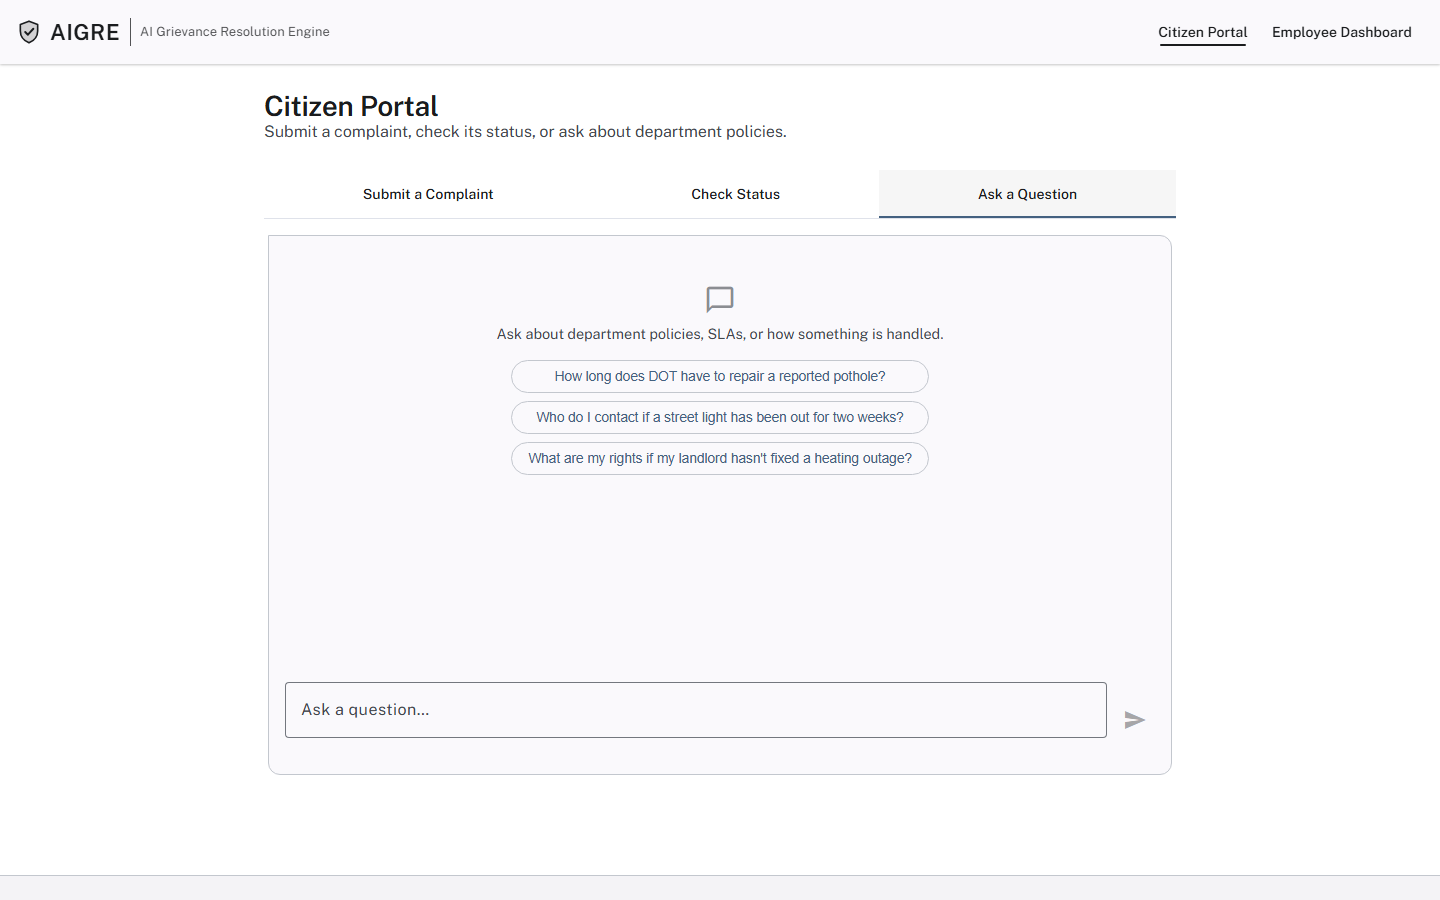
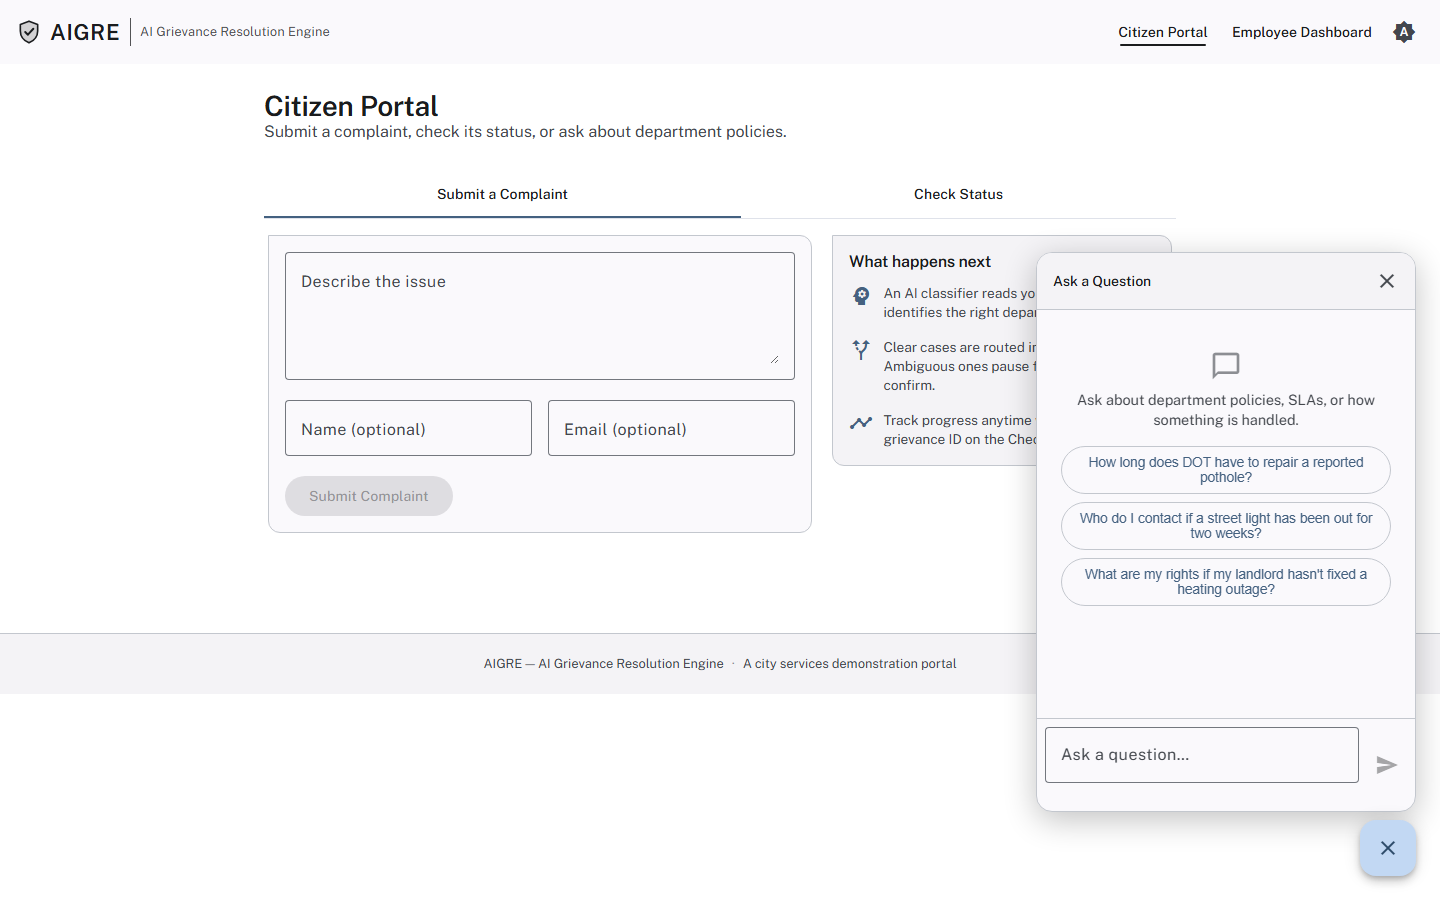
Update docs for the floating chat widget, add brownfield embed section
Regenerated the chat screenshots (docs/images/05, 06) to show the floating
launcher instead of the old "Ask a Question" tab, and reworked
APP_WALKTHROUGH.md's Citizen Portal section accordingly (the chat is now
its own site-wide section, not a citizen-portal-only tab).

Added a new README section demonstrating brownfield integration: a
department's existing website embedding the chat widget via one <script>
tag, scoped to its own document corpus. Includes two new live screenshots
of the widget running on a styled DMV proof-of-concept page (clearly
labeled as a POC, not the real dmv.nh.gov) with a real cited answer.

Claude-Session: https://claude.ai/code/session_01YEXGeRZ8oKgEagEFPSS9kn

diff --git a/README.md b/README.md
@@ -21,6 +21,7 @@ workflow state rather than a bolted-on afterthought.
 - [What it does](#what-it-does)
 - [Where AI is actually used](#where-ai-is-actually-used)
 - [What's agentic here (and what isn't)](#whats-agentic-here-and-what-isnt)
+- [Embedding on an existing site (brownfield integration)](#embedding-on-an-existing-site-brownfield-integration)
 - [Tech stack](#tech-stack)
 - [Architecture at a glance](#architecture-at-a-glance)
 - [Screenshots](#screenshots)
@@ -43,9 +44,10 @@ workflow state rather than a bolted-on afterthought.
   of a bad guess.
 - Check the status of an existing complaint by ID at any time.
 - Reopen a closed complaint if the issue recurs (priority bumps up a tier automatically).
-- Ask policy questions in a chat interface ("How long does DOT have to fix a pothole?")
-  and get an answer grounded in the actual policy corpus, with a citation — or an
-  honest "I don't have that" instead of a fabricated answer.
+- Ask policy questions via a floating chat launcher, available on every page
+  ("How long does DOT have to fix a pothole?") and get an answer grounded in the
+  actual policy corpus, with a citation — or an honest "I don't have that" instead of
+  a fabricated answer.
 - Email a complaint instead of using the form — a monitored inbox is polled on a
   schedule and every message goes through the identical pipeline as a portal
   submission.
@@ -142,6 +144,51 @@ text alone.
 
 ---
 
+## Embedding on an existing site (brownfield integration)
+
+A department that already runs its own website doesn't need to send citizens to
+AIGRE — it can embed the same chat widget directly, scoped to *only its own* policy
+corpus, with one script tag:
+
+```html
+<script src="https://your-aigre-host/embed.js" data-department="DMV"></script>
+```
+
+That's the whole integration. The script injects a floating chat button on the host
+page; clicking it opens a same-origin AIGRE iframe pre-scoped to the given department,
+so a DMV site's widget only ever answers from DMV's own documents — a question about a
+different department's policies gets an honest "I don't know," not a cross-department
+answer (verified live; see `PROJECT.md`).
+
+The screenshots below are a real proof-of-concept page, locally styled to resemble a
+typical state DMV site so the widget can be evaluated in a realistic hosting context —
+**it is not the real dmv.nh.gov and isn't affiliated with the actual New Hampshire
+DMV**, just a stand-in for "some department's existing website."
+
+| | |
+|---|---|
+| ![DMV POC page with the closed chat launcher](docs/images/20-dmv-embed-closed.png) Embedded on a DMV-styled page — closed | ![DMV POC page with an answered, cited question](docs/images/21-dmv-embed-open.png) A real DMV-specific question, answered and cited from DMV's corpus only |
+
+**Embedding is allowlisted, not open to any site that includes the script.** An admin
+registers which origins may embed a given department's widget; nothing renders on an
+unregistered origin — the browser itself refuses to display it (enforced via a
+per-department `Content-Security-Policy: frame-ancestors` header, not just an app-level
+check):
+
+```
+curl -s -X POST http://localhost:8085/admin/departments/DMV/embed-origins ^
+  -H "Content-Type: application/json" ^
+  -H "Authorization: Bearer <ADMIN_TOKEN>" ^
+  -d "{\"origin\": \"https://dmv.example.gov\"}"
+```
+
+Because the widget's chat requests happen *inside* the iframe (same origin as AIGRE,
+not the host page), no CORS changes are needed at all — only a framing decision. Full
+design writeup, including the live cross-department-leakage and unregistered-origin
+tests, is in `PROJECT.md`.
+
+---
+
 ## Tech stack
 
 | Layer | Technology |
@@ -235,7 +282,7 @@ diagrams, and the data model are in [`docs/ARCHITECTURE.md`](docs/ARCHITECTURE.m
 
 | | |
 |---|---|
-| ![Citizen submit form](docs/images/02-citizen-submit-form.png) Citizen intake form | ![Chat with citations](docs/images/06-citizen-chat-answer.png) Policy chat, with citations |
+| ![Citizen submit form](docs/images/02-citizen-submit-form.png) Citizen intake form | ![Chat with citations](docs/images/06-citizen-chat-answer.png) Floating policy chat, with citations |
 | ![Pending review queue](docs/images/07-employee-pending-review.png) Pending Review — low-confidence cases | ![Complaint trends dashboard](docs/images/10-employee-trends.png) Trends: volume, sentiment, SLA snapshot |
 
 The full illustrated tour of every screen, for both the citizen and employee sides —

diff --git a/docs/APP_WALKTHROUGH.md b/docs/APP_WALKTHROUGH.md
@@ -24,7 +24,8 @@ here.
 
 ## Citizen Portal (`/citizen`)
 
-Three tabs: **Submit a Complaint**, **Check Status**, **Ask a Question**.
+Two tabs — **Submit a Complaint**, **Check Status** — plus a floating **Chat** launcher
+(bottom-right) that's available from any page in the app, not just the citizen portal.
 
 ### Submit a Complaint
 
@@ -116,14 +117,20 @@ department for another look.
 
 ![Reopened complaint — priority bumped, fresh SLA, confirmation shown](images/14-citizen-reopen-success.png)
 
-### Ask a Question
+---
 
-A chat interface backed by the RAG pipeline over the department policy corpus. Empty
-state offers three clickable example questions. Answers stream in token-by-token and
-end with citation cards (document filename + department) for whatever was actually
-retrieved and used.
+## Floating chat (available on every page)
 
-![Chat empty state with example questions](images/05-citizen-chat-empty.png)
+A floating **Chat** button sits bottom-right on every page of the app — not just the
+citizen portal — and opens a small panel backed by the same RAG pipeline over the
+department policy corpus. It used to be a third tab on the citizen portal ("Ask a
+Question"); it's now a site-wide launcher instead, so the same assistant is reachable
+from the landing page or mid-way through filling out a complaint, not just from one
+specific tab. Empty state offers three clickable example questions. Answers stream in
+token-by-token and end with citation cards (document filename + department) for
+whatever was actually retrieved and used.
+
+![Floating chat empty state with example questions](images/05-citizen-chat-empty.png)
 
 **Example — verified live:**
 
